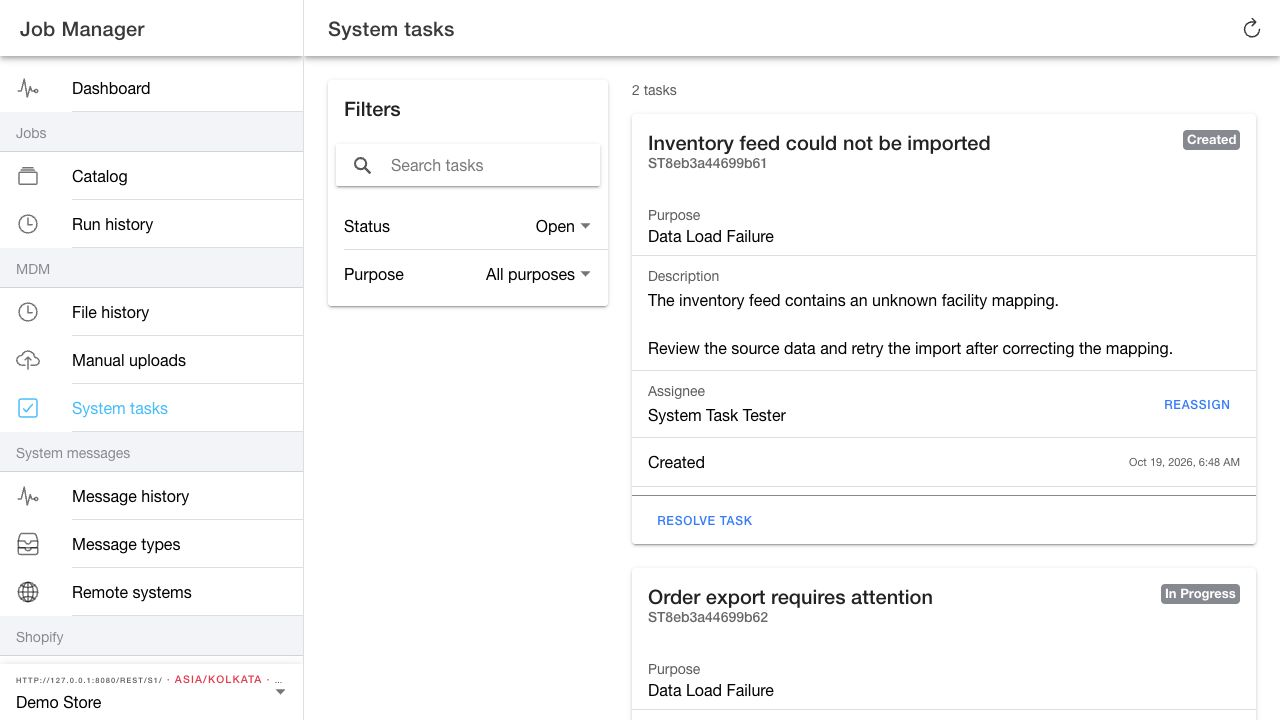
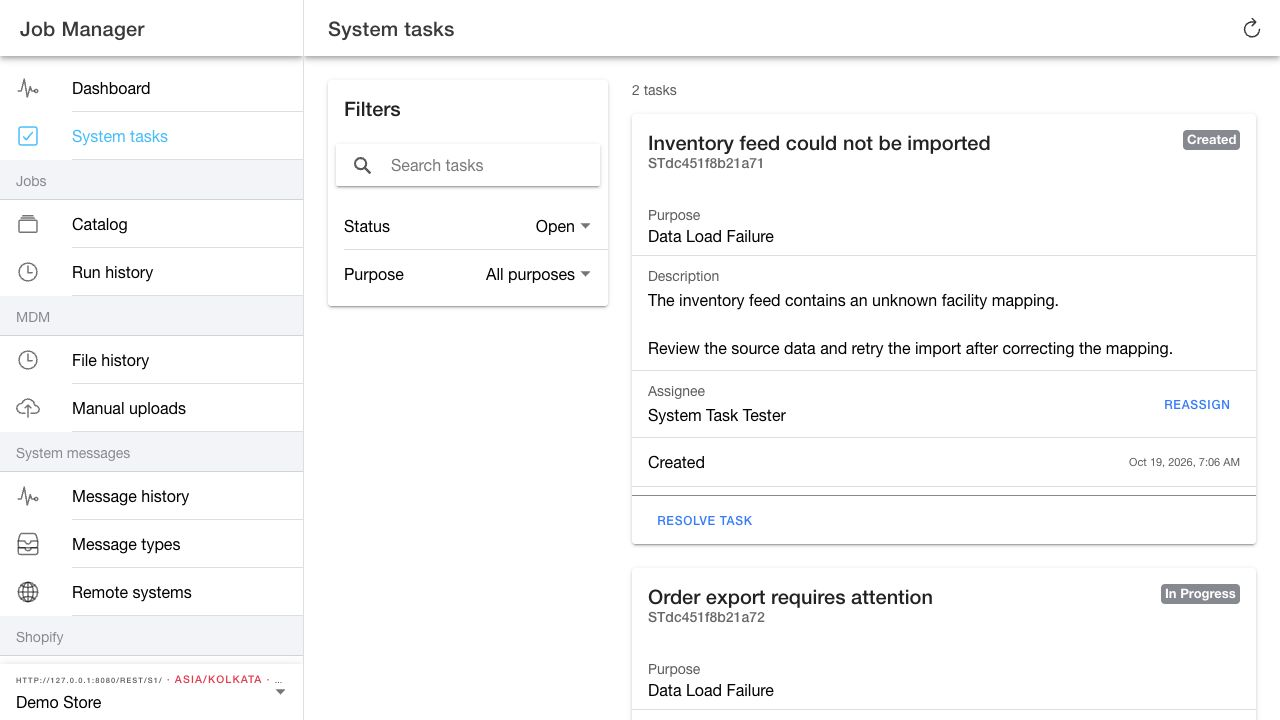
Lock assignment controls during save and move System Tasks below Dashboard

diff --git a/src/views/SystemTasks.vue b/src/views/SystemTasks.vue
@@ -70,12 +70,12 @@
       </ion-header>
       <ion-content>
         <p class="ion-padding-horizontal">{{ assignmentTask?.workEffortName || assignmentTask?.workEffortId }}</p>
-        <ion-searchbar :value="assigneeSearch" :debounce="350" :placeholder="translate('Search people')" @ionInput="searchAssignees($event.detail.value || '')" />
+        <ion-searchbar :disabled="savingAssignment" :value="assigneeSearch" :debounce="350" :placeholder="translate('Search people')" @ionInput="searchAssignees($event.detail.value || '')" />
         <ion-radio-group v-model="selectedPartyId">
           <ion-list>
-            <ion-item><ion-radio value="">{{ translate('Unassigned') }}</ion-radio></ion-item>
+            <ion-item><ion-radio value="" :disabled="savingAssignment">{{ translate('Unassigned') }}</ion-radio></ion-item>
             <ion-item v-for="user in assignmentOptions" :key="user.partyId">
-              <ion-radio :value="user.partyId">{{ user.name }}</ion-radio>
+              <ion-radio :value="user.partyId" :disabled="savingAssignment">{{ user.name }}</ion-radio>
             </ion-item>
           </ion-list>
         </ion-radio-group>
@@ -85,7 +85,7 @@
           <ion-button fill="clear" @click="loadAssignees(false)">{{ translate('Retry') }}</ion-button>
         </div>
         <p v-else-if="!assigneeResults.length" class="ion-padding">{{ translate('No people found') }}</p>
-        <ion-button v-if="hasMoreUsers && !usersError" expand="block" fill="clear" :disabled="usersLoading" @click="loadAssignees(true)">{{ translate('Load more') }}</ion-button>
+        <ion-button v-if="hasMoreUsers && !usersError" expand="block" fill="clear" :disabled="usersLoading || savingAssignment" @click="loadAssignees(true)">{{ translate('Load more') }}</ion-button>
         <p v-if="assignmentError" role="alert" class="ion-padding">{{ translate('Unable to assign task. Please try again.') }}</p>
       </ion-content>
       <ion-footer>

diff --git a/src/components/Menu.vue b/src/components/Menu.vue
@@ -63,6 +63,12 @@ let appPages = [
     mdIcon: pulseOutline
   },
   {
+    title: "System tasks",
+    url: "/system-tasks",
+    iosIcon: checkboxOutline,
+    mdIcon: checkboxOutline,
+  },
+  {
     title: "Jobs"
   },
   {
@@ -95,12 +101,6 @@ let appPages = [
     iosIcon: cloudUploadOutline,
     mdIcon: cloudUploadOutline,
     childRoutes: ["/manual-uploads/"]
-  },
-  {
-    title: "System tasks",
-    url: "/system-tasks",
-    iosIcon: checkboxOutline,
-    mdIcon: checkboxOutline,
   },
   {
     title: "System messages"

diff --git a/docs/menu-structure.md b/docs/menu-structure.md
@@ -4,15 +4,17 @@ This document defines the final navigation structure for the Job Manager app. Th
 
 ## Menu Pillars
 
+Dashboard is followed immediately by **System tasks**, before the Jobs divider.
+
+### System Tasks
+- **System tasks**: Review, assign, and resolve system work efforts directly from task cards (`/system-tasks`).
+
 ### Jobs
 - **Catalog**: Search, filter, create, and inspect scheduled jobs.
 
 ### MDM
 - **File History**: Audit trail for generated or consumed files.
 - **Manual Uploads**: Entry point for manual import workflows.
-
-### System Tasks
-- **System tasks**: Review, assign, and resolve system work efforts directly from task cards (`/system-tasks`).
 
 ### System Messages
 - **Monitor**: Global inbox of individual system messages across all types and remotes.
@@ -28,6 +30,8 @@ System Messages uses plural top-level resource routes.
 
 ```ts
 const appPages = [
+  { title: "Dashboard", url: "/pipeline", iosIcon: pulseOutline, mdIcon: pulseOutline },
+  { title: "System tasks", url: "/system-tasks", iosIcon: checkboxOutline, mdIcon: checkboxOutline },
   { title: "Jobs" },
   { title: "Catalog", url: "/catalog", iosIcon: albumsOutline, mdIcon: albumsOutline, childRoutes: ["/job/"] },
 
